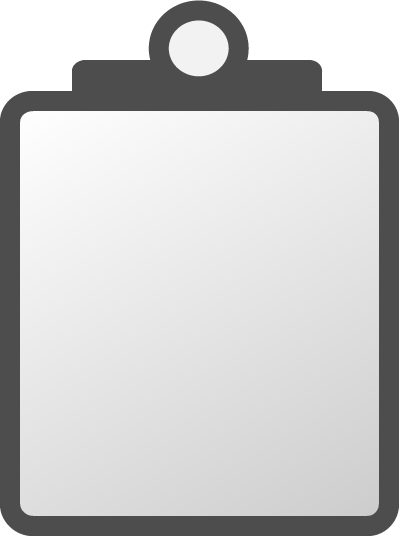
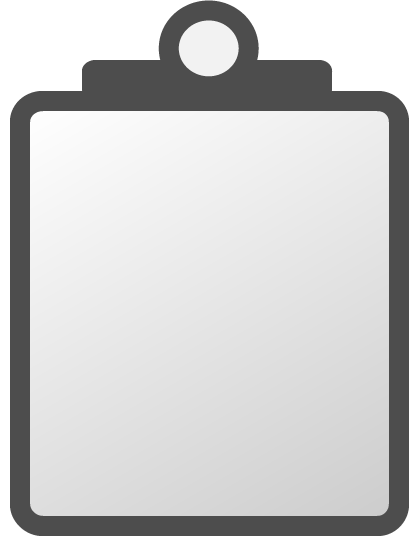
medical history clipboard

diff --git a/media/css/main.less b/media/css/main.less
@@ -180,23 +180,61 @@ ul#breadcrumbs {
   #history {
     background: top no-repeat url('/site_media/img/clipboard.png');
     background-size: 100% 100%;
-    width: 345px;
-    height: 500px;
+    width: 409px;
+    height: 536px;
   }
   
-  #historyContainer {
-    float: left;
-    margin: 75px 25px 10px 30px;
-    font-size: 13px;
-      
-       ul li {
+  .tabscontent {
+    margin: 91px 0 0 10px;    
+    width: 378px;
+    height: 405px;
+        
+    h2 {
+      margin: 0;
+      font-size: 14px;
+    }
+  }
+  
+  
+  #tabpage_1 {
+  background: top no-repeat url('/site_media/img/tab1.png');
+  background-size: 100% 100%;
+  width: 345px;
+  height: 394px;
+  float: left;
+  font-size: 13px;
+  padding: 10px 0 0 33px;
+  box-shadow: 1px #ccc;
+   }
+     
+   #tabpage_2 {
+  background: top no-repeat url('/site_media/img/tab2.png');
+  background-size: 100% 100%;
+  width: 345px;
+  height: 394px;
+  float: left;
+  font-size: 13px;
+  padding: 10px 0 0 33px;
+  box-shadow: 1px #ccc;
+   }
+   
+    ul li {
          list-style-type: none;
          margin: 0 0 0 -25px;
        }
+       
+  .tabs {
+     
+     ul li {
+       display: inline;
+       margin: 0 40px 0 -25px;
+     }
   }
   
-  
+
 }
+  
+
 
 
 /*Footer*/
